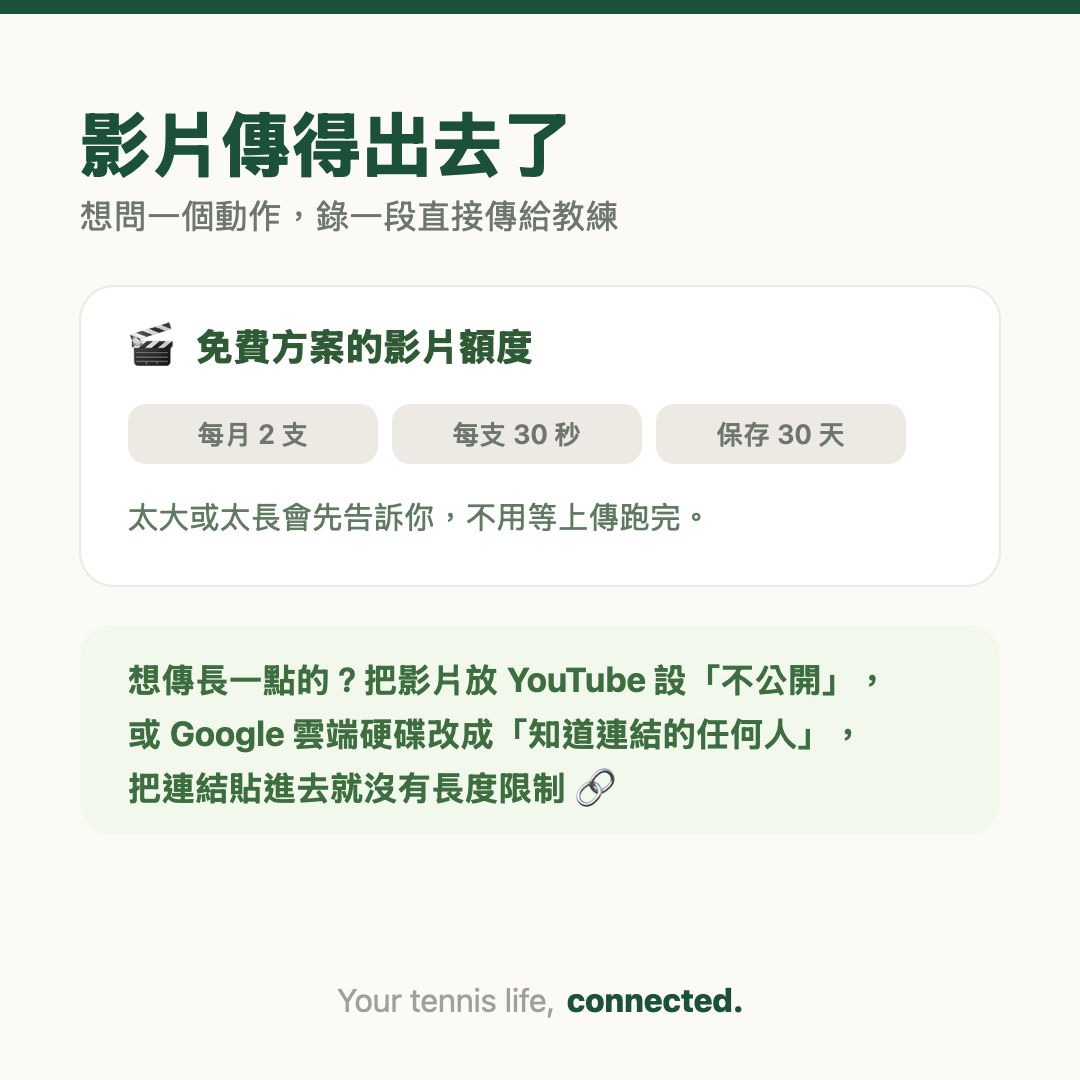
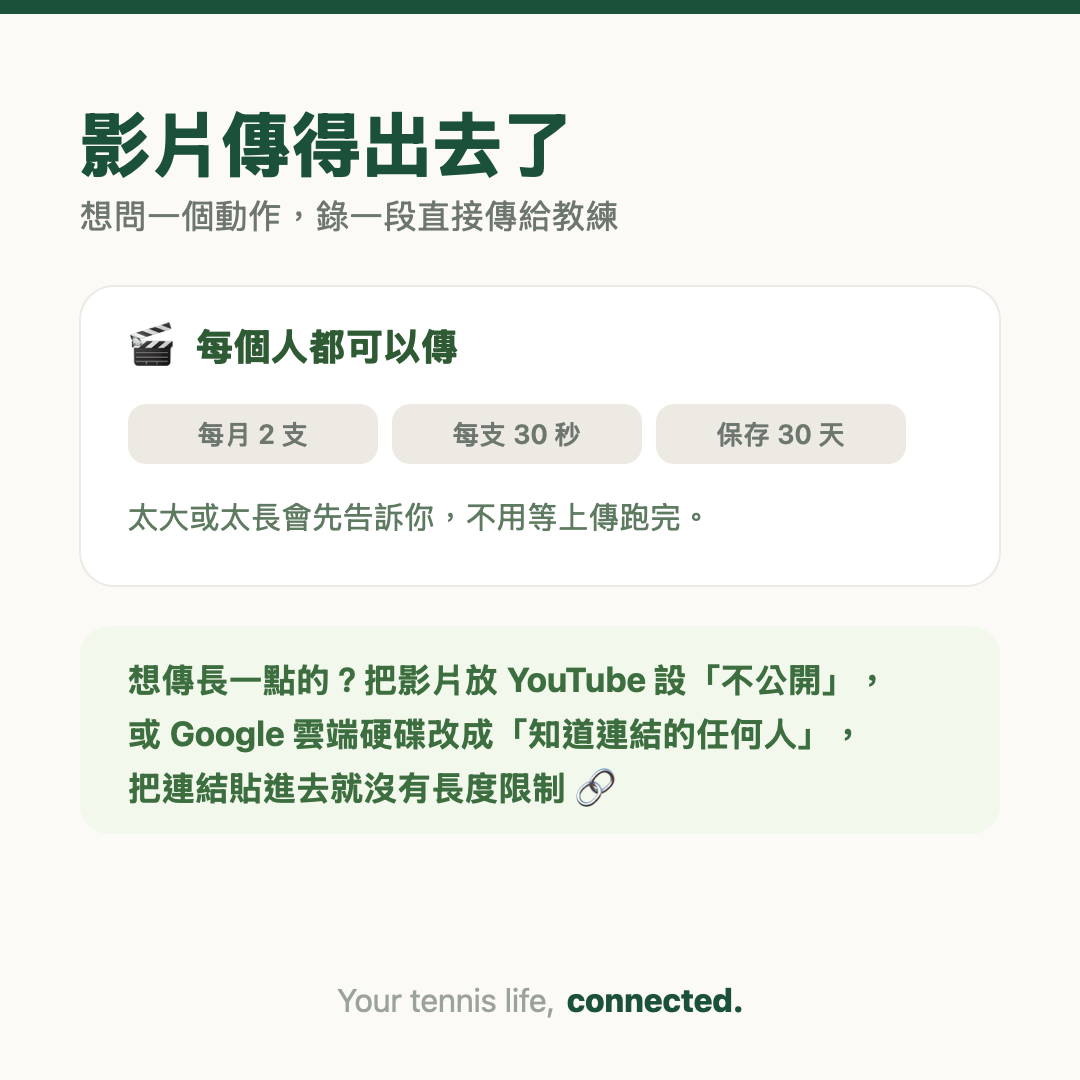
copy(blog): 2350 的影片段落不再講「免費方案」
App 裡沒有可以購買的付費方案。寫「免費方案每月 2 支」會讓人去找升級按鈕，
而那個按鈕不存在——App 自己的文案從來只講堅果（進階影片上傳、堅果將在上傳
成功後扣除），是這篇公告引進了一個不存在的分層。

改成直接講額度：每月 2 支、每支 30 秒、保存 30 天。圖卡那張的標題也從
「免費方案的影片額度」改成「每個人都可以傳」。

Claude-Session: https://claude.ai/code/session_01BV6NGDaetCpy1kAfjnEVU7

Changed region(s): [[0.1833, 0.3056, 0.4889, 0.3361]]

diff --git a/blog/2350.html b/blog/2350.html
@@ -4,10 +4,10 @@
   <meta charset="UTF-8" />
   <meta name="viewport" content="width=device-width, initial-scale=1.0" />
   <title>影片傳得出去了，數字也對了 · Tennis Nut 1.12.3</title>
-  <meta name="description" content="影片可以傳給教練了——免費方案每月 2 支、每支 30 秒、保存 30 天。想傳長一點的，貼 YouTube 或雲端硬碟連結也可以。" />
+  <meta name="description" content="影片可以傳給教練了——每月 2 支、每支 30 秒、保存 30 天。想傳長一點的，貼 YouTube 或雲端硬碟連結也可以。" />
   <meta property="og:type" content="article" />
   <meta property="og:title" content="影片傳得出去了，數字也對了 · Tennis Nut 1.12.3" />
-  <meta property="og:description" content="影片可以傳給教練了——免費方案每月 2 支、每支 30 秒、保存 30 天。想傳長一點的，貼 YouTube 或雲端硬碟連結也可以。" />
+  <meta property="og:description" content="影片可以傳給教練了——每月 2 支、每支 30 秒、保存 30 天。想傳長一點的，貼 YouTube 或雲端硬碟連結也可以。" />
   <meta property="og:url" content="https://tennisnut.kxon.net/blog/2350" />
   <meta property="og:image" content="https://tennisnut.kxon.net/blog-2350.png" />
   <meta property="og:image:width" content="1200" />
@@ -131,13 +131,13 @@
     <a class="rel-back" href="/blog">← 所有更新</a>
     <span class="tag-line">版本 1.12.3 · Build 2350 · 2026.09.16</span>
     <h1>影片傳得出去了，數字也對了</h1>
-    <p class="rel-lead">影片可以傳給教練了——免費方案每月 2 支、每支 30 秒、保存 30 天。想傳長一點的，貼 YouTube 或雲端硬碟連結也可以。</p>
+    <p class="rel-lead">影片可以傳給教練了——每月 2 支、每支 30 秒、保存 30 天。想傳長一點的，貼 YouTube 或雲端硬碟連結也可以。</p>
 
     <section class="hl">
       <div class="hl-emoji" aria-hidden="true">🎬</div>
       <div class="hl-body">
         <h2>可以傳影片給教練了</h2>
-        <p>免費方案每月 2 支、每支 30 秒，影片保存 30 天。附影片之前會先看大小和長度，超過就當場告訴你，不用等上傳跑完才發現失敗。
+        <p>每個人每月可以傳 2 支、每支 30 秒，影片保存 30 天。附影片之前會先看大小和長度，超過就當場告訴你，不用等上傳跑完才發現失敗。
 
 想傳長一點的片段：把影片上傳到 YouTube 並設成「不公開」，或放進 Google 雲端硬碟（共用權限改成「知道連結的任何人」），再把連結貼進「YouTube / Drive / 影片網址」那個欄位——沒有長度限制，教練一樣點得開。</p>
 

diff --git a/blog.html b/blog.html
@@ -4,10 +4,10 @@
   <meta charset="UTF-8" />
   <meta name="viewport" content="width=device-width, initial-scale=1.0" />
   <title>最新情報 · Tennis Nut</title>
-  <meta name="description" content="Tennis Nut 的版本更新與功能介紹。最新版 1.12.3：影片可以傳給教練了——免費方案每月 2 支、每支 30 秒、保存 30 天。想傳長一點的，貼 YouTube 或雲端硬碟連結也可以。" />
+  <meta name="description" content="Tennis Nut 的版本更新與功能介紹。最新版 1.12.3：影片可以傳給教練了——每月 2 支、每支 30 秒、保存 30 天。想傳長一點的，貼 YouTube 或雲端硬碟連結也可以。" />
   <meta property="og:type" content="article" />
   <meta property="og:title" content="最新情報 · Tennis Nut" />
-  <meta property="og:description" content="Tennis Nut 的版本更新與功能介紹。最新版 1.12.3：影片可以傳給教練了——免費方案每月 2 支、每支 30 秒、保存 30 天。想傳長一點的，貼 YouTube 或雲端硬碟連結也可以。" />
+  <meta property="og:description" content="Tennis Nut 的版本更新與功能介紹。最新版 1.12.3：影片可以傳給教練了——每月 2 支、每支 30 秒、保存 30 天。想傳長一點的，貼 YouTube 或雲端硬碟連結也可以。" />
   <meta property="og:url" content="https://tennisnut.kxon.net/blog" />
   <meta property="og:image" content="https://tennisnut.kxon.net/blog-2350.png" />
   <meta property="og:image:width" content="1200" />
@@ -140,7 +140,7 @@
       <div class="rel-hero-body">
         <span class="rel-badge">最新版本</span>
         <h3>影片傳得出去了，數字也對了</h3>
-        <p>影片可以傳給教練了——免費方案每月 2 支、每支 30 秒、保存 30 天。想傳長一點的，貼 YouTube 或雲端硬碟連結也可以。</p>
+        <p>影片可以傳給教練了——每月 2 支、每支 30 秒、保存 30 天。想傳長一點的，貼 YouTube 或雲端硬碟連結也可以。</p>
         <div class="rel-item-meta">2026.09.16 · 1.12.3 (2350)</div>
       </div>
     </a>
